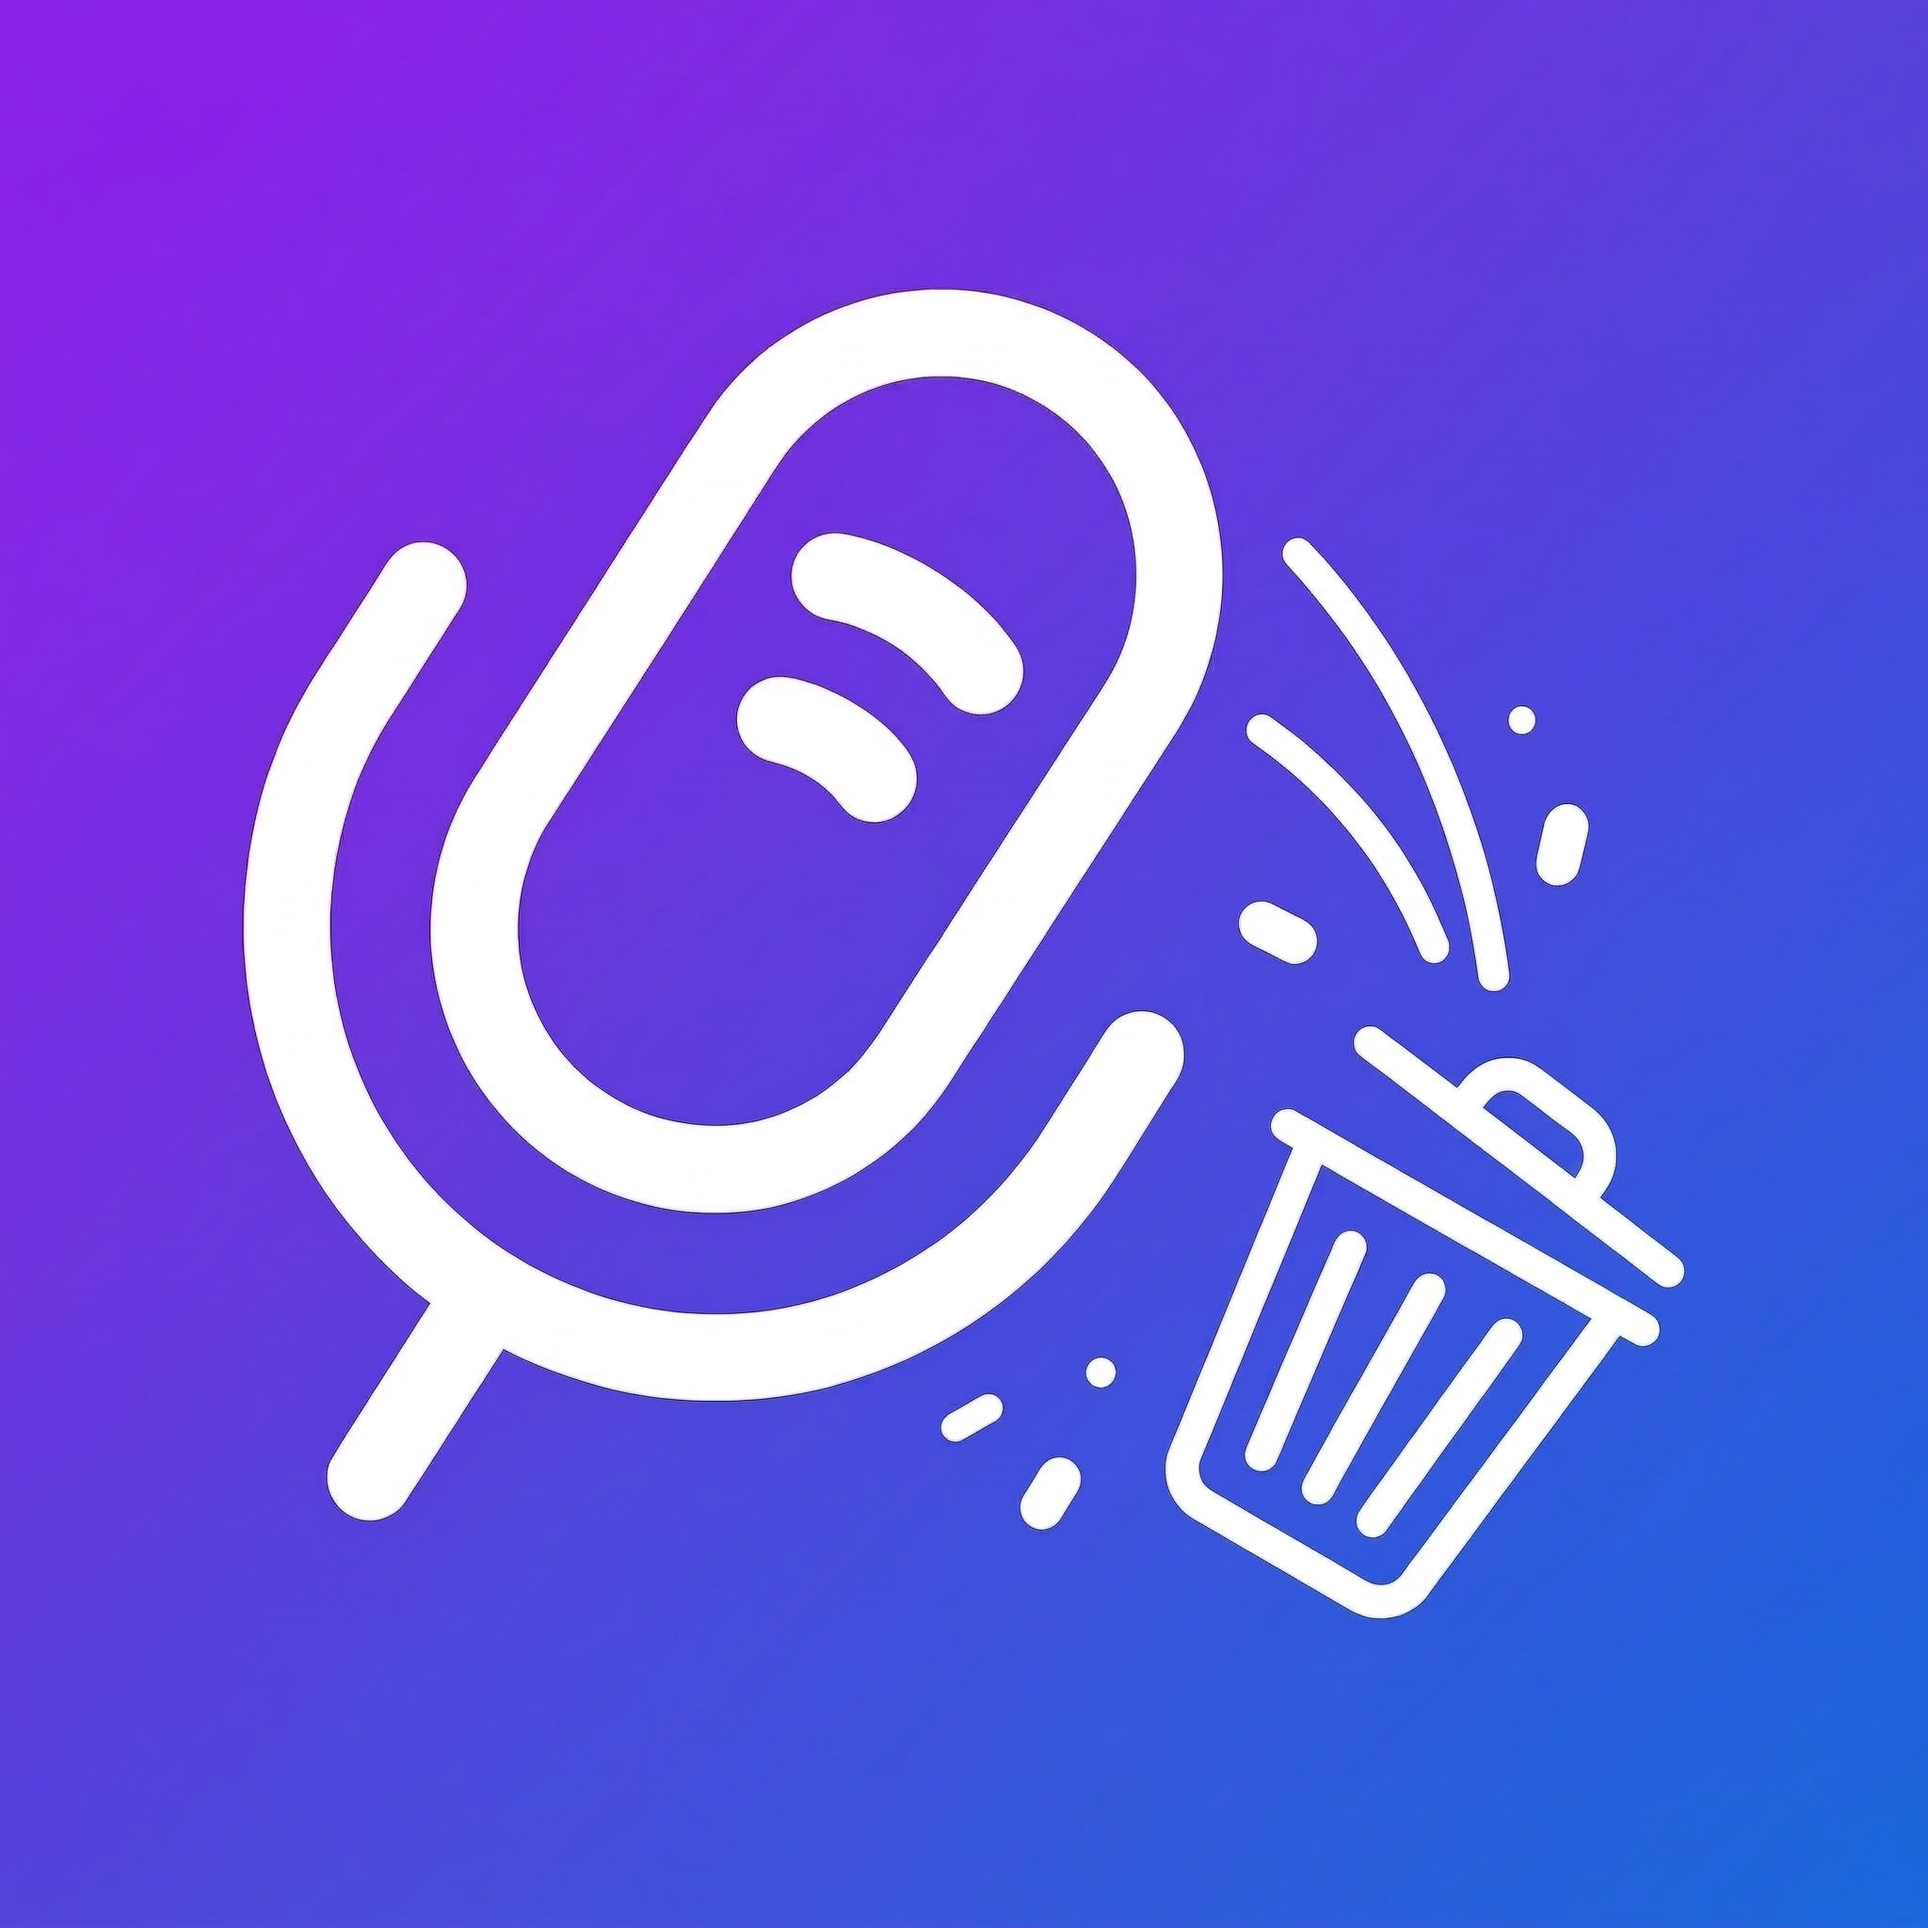
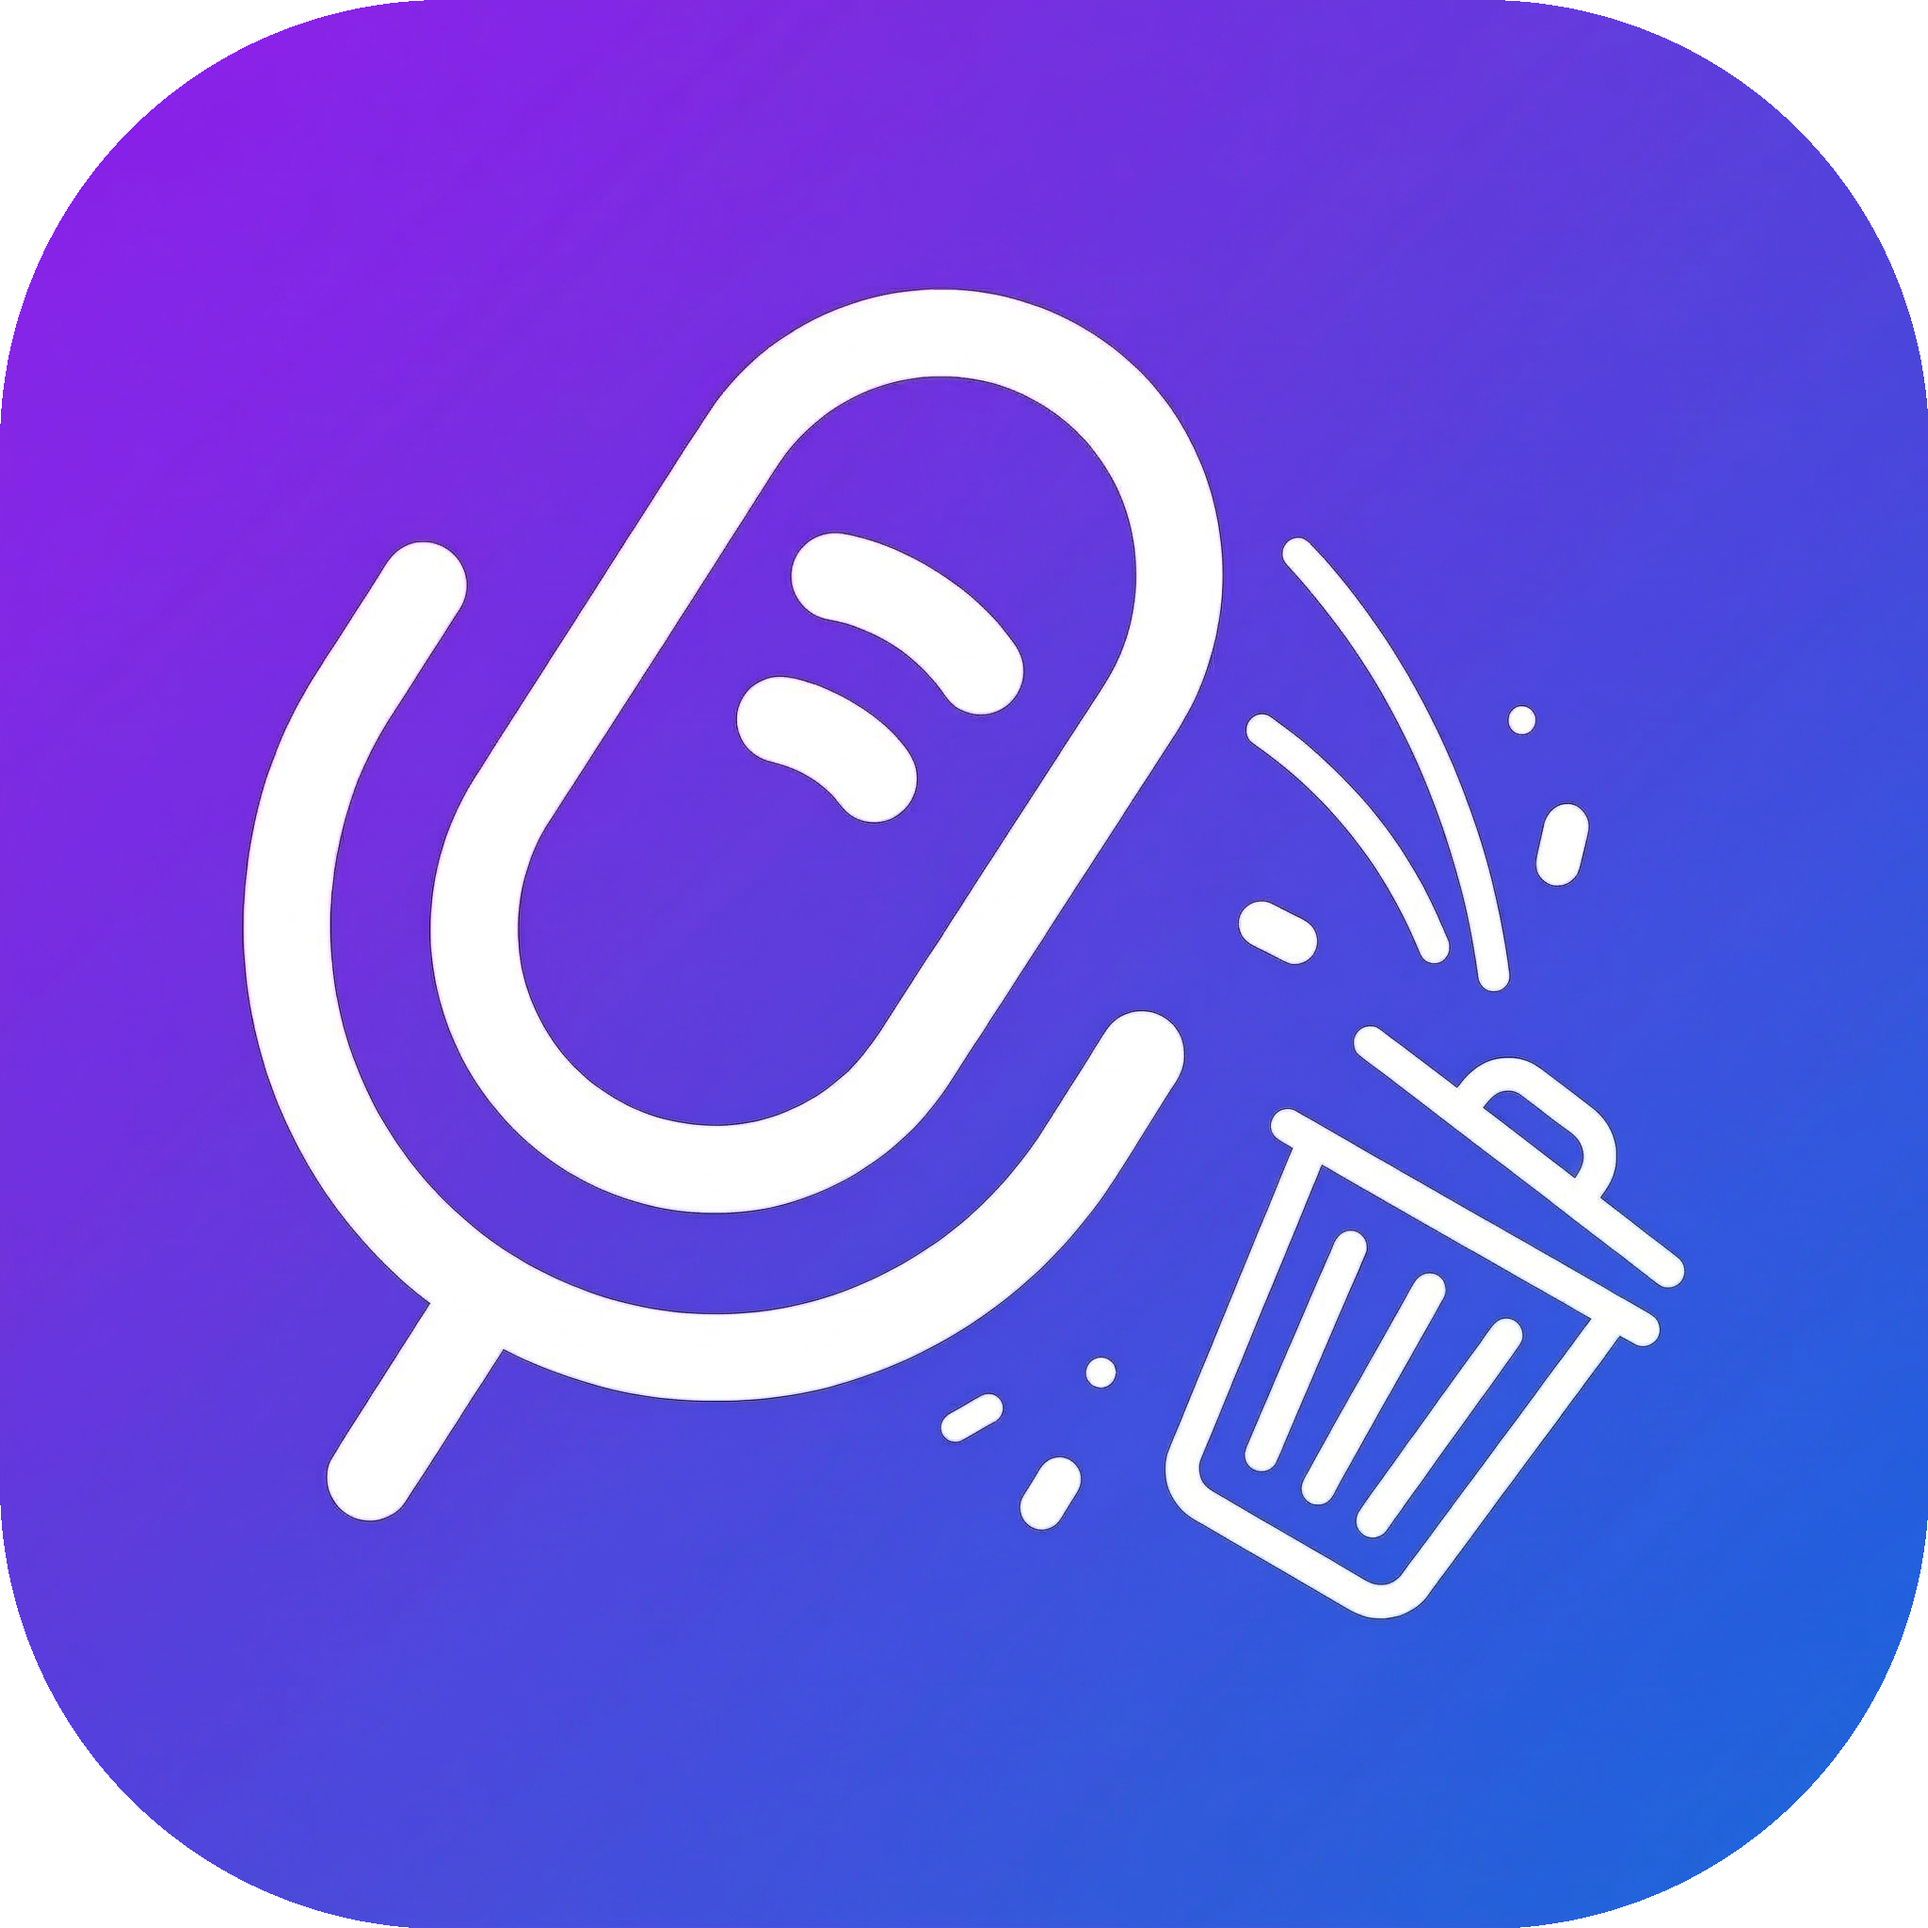
Release v1.0.3 with installer cancellation and macOS 14 fixes

diff --git a/task_runner/TaskProgressApp.m b/task_runner/TaskProgressApp.m
@@ -1,4 +1,5 @@
 #import <Cocoa/Cocoa.h>
+#import <signal.h>
 
 static NSString *Localized(NSString *zh, NSString *en) {
     NSArray<NSString *> *langs = [NSLocale preferredLanguages];
@@ -54,6 +55,7 @@ static NSString *SanitizeOutput(NSString *value) {
 @property(nonatomic, strong) NSMutableArray<NSDictionary *> *pendingWarnings;
 @property(nonatomic, assign) BOOL sawProgress;
 @property(nonatomic, assign) BOOL taskStarted;
+@property(nonatomic, assign) BOOL cancellationRequested;
 @property(nonatomic, assign) BOOL finished;
 @end
 
@@ -93,8 +95,7 @@ static NSString *SanitizeOutput(NSString *value) {
     if (self.finished || !self.taskStarted || self.task == nil || !self.task.running) {
         return NSTerminateNow;
     }
-    NSBeep();
-    self.statusLabel.stringValue = Localized(@"任务仍在进行中，请等待完成。", @"Task is still running. Please wait for completion.");
+    [self requestCancelIfNeeded];
     return NSTerminateCancel;
 }
 
@@ -103,8 +104,7 @@ static NSString *SanitizeOutput(NSString *value) {
     if (self.finished || !self.taskStarted || self.task == nil || !self.task.running) {
         return YES;
     }
-    NSBeep();
-    self.statusLabel.stringValue = Localized(@"任务仍在进行中，请等待完成。", @"Task is still running. Please wait for completion.");
+    [self requestCancelIfNeeded];
     return NO;
 }
 
@@ -210,8 +210,8 @@ static NSString *SanitizeOutput(NSString *value) {
 
     self.closeButton = [[NSButton alloc] initWithFrame:NSMakeRect(552, 28, 120, 36)];
     self.closeButton.bezelStyle = NSBezelStyleRounded;
-    self.closeButton.title = Localized(@"关闭", @"Close");
-    self.closeButton.enabled = NO;
+    self.closeButton.title = Localized(@"取消", @"Cancel");
+    self.closeButton.enabled = YES;
     self.closeButton.target = self;
     self.closeButton.action = @selector(onClose:);
     [content addSubview:self.closeButton];
@@ -319,6 +319,7 @@ static NSString *SanitizeOutput(NSString *value) {
         return;
     }
     self.taskStarted = YES;
+    setpgid(self.task.processIdentifier, self.task.processIdentifier);
 }
 
 - (void)consumeOutputData:(NSData *)data {
@@ -436,11 +437,21 @@ static NSString *SanitizeOutput(NSString *value) {
     }
     self.finished = YES;
     self.closeButton.enabled = YES;
+    self.closeButton.title = Localized(@"关闭", @"Close");
     if (!self.sawProgress) {
         self.progressBar.indeterminate = NO;
         self.progressBar.minValue = 0;
         self.progressBar.maxValue = 100;
         [self.progressBar stopAnimation:nil];
+    }
+    if (self.cancellationRequested) {
+        self.progressBar.doubleValue = 0;
+        self.statusLabel.stringValue = Localized(
+            [self.config.mode isEqualToString:@"uninstall"] ? @"卸载已取消。" : @"安装已取消。",
+            [self.config.mode isEqualToString:@"uninstall"] ? @"Uninstall cancelled." : @"Installation cancelled."
+        );
+        [self appendLog:[NSString stringWithFormat:@"[WARN] %@\n", self.statusLabel.stringValue]];
+        return;
     }
     if (status == 0) {
         self.progressBar.doubleValue = 100;
@@ -513,7 +524,82 @@ static NSString *SanitizeOutput(NSString *value) {
 
 - (void)onClose:(id)sender {
     (void)sender;
+    if (!self.finished && self.taskStarted && self.task != nil && self.task.running) {
+        [self requestCancelIfNeeded];
+        return;
+    }
     [NSApp terminate:nil];
+}
+
+- (BOOL)requestCancelIfNeeded {
+    if (self.finished || !self.taskStarted || self.task == nil || !self.task.running) {
+        return YES;
+    }
+    if (self.cancellationRequested) {
+        self.statusLabel.stringValue = Localized(@"正在取消，请稍候…", @"Cancelling, please wait...");
+        return NO;
+    }
+
+    NSAlert *alert = [[NSAlert alloc] init];
+    alert.alertStyle = NSAlertStyleWarning;
+    if ([self.config.mode isEqualToString:@"uninstall"]) {
+        alert.messageText = Localized(@"确认取消卸载", @"Cancel Uninstall?");
+        alert.informativeText = Localized(
+            @"当前卸载任务仍在运行。现在取消会停止任务，并尽量保留已存在的文件。",
+            @"The uninstall task is still running. Cancelling now will stop it and preserve existing files as much as possible."
+        );
+    } else {
+        alert.messageText = Localized(@"确认取消安装", @"Cancel Installation?");
+        alert.informativeText = Localized(
+            @"当前安装任务仍在运行。现在取消会停止任务，并清理本次安装已产生的文件。",
+            @"The installation task is still running. Cancelling now will stop it and clean up files created by this install."
+        );
+    }
+    [alert addButtonWithTitle:Localized(@"继续取消", @"Cancel Task")];
+    [alert addButtonWithTitle:Localized(@"继续等待", @"Keep Running")];
+    if ([alert runModal] != NSAlertFirstButtonReturn) {
+        return NO;
+    }
+    [self cancelRunningTask];
+    return NO;
+}
+
+- (void)cancelRunningTask {
+    if (self.cancellationRequested || self.task == nil || !self.task.running) {
+        return;
+    }
+    self.cancellationRequested = YES;
+    self.statusLabel.stringValue = Localized(@"正在取消并清理安装文件…", @"Cancelling and cleaning up installation files...");
+    self.closeButton.enabled = NO;
+    self.actionButton.enabled = NO;
+    self.secondaryActionButton.enabled = NO;
+    [self appendLog:[NSString stringWithFormat:@"[Step] %@\n",
+                     Localized(@"用户请求取消，正在终止任务并回滚。", @"Cancellation requested. Stopping task and rolling back.")]];
+
+    pid_t pid = (pid_t)self.task.processIdentifier;
+    if (pid > 0) {
+        killpg(pid, SIGTERM);
+    }
+    @try {
+        [self.task terminate];
+    } @catch (__unused NSException *exc) {
+    }
+
+    __weak typeof(self) weakSelf = self;
+    dispatch_after(dispatch_time(DISPATCH_TIME_NOW, (int64_t)(2.0 * NSEC_PER_SEC)), dispatch_get_main_queue(), ^{
+        if (weakSelf == nil || weakSelf.task == nil || !weakSelf.task.running) {
+            return;
+        }
+        weakSelf.statusLabel.stringValue = Localized(@"取消中，正在强制结束安装任务…", @"Still cancelling, force-stopping the task...");
+        pid_t runningPid = (pid_t)weakSelf.task.processIdentifier;
+        if (runningPid > 0) {
+            killpg(runningPid, SIGKILL);
+        }
+        @try {
+            [weakSelf.task interrupt];
+        } @catch (__unused NSException *exc) {
+        }
+    });
 }
 
 - (void)onPrimaryAction:(id)sender {

diff --git a/menubar_dictation_app.py b/menubar_dictation_app.py
@@ -6,6 +6,7 @@ import json
 import logging
 import objc
 import os
+import platform
 import re
 import shutil
 import subprocess
@@ -33,6 +34,8 @@ from AppKit import (
     NSColor,
     NSFont,
     NSImage,
+    NSImageLeft,
+    NSImageScaleProportionallyDown,
     NSImageView,
     NSMakeRect,
     NSMakeSize,
@@ -82,7 +85,7 @@ FUNASR_RUNTIME_DIR = APP_DIR / "funasr_nano_runtime"
 FUNASR_REMOTE_CODE_PATH = FUNASR_RUNTIME_DIR / "model.py"
 MENU_ICON = str((APP_DIR / "assets" / "mic_menu_icon.png").resolve())
 APP_ICON = str((APP_DIR / "assets" / "app_launcher_icon.png").resolve())
-APP_BUILD = "2026-03-21-v1.0.2"
+APP_BUILD = "2026-03-22-v1.0.3"
 LOCK_FD = None
 EVENT_TAP_LOCATION = Quartz.kCGSessionEventTap
 DEFAULT_NCPU = max(1, int(os.environ.get("SVD_NCPU", "2")))
@@ -3040,13 +3043,23 @@ class SenseVoiceMenuBarApp(rumps.App):
         if self._menu_icon_ns is not None:
             return self._menu_icon_ns
         try:
-            if not Path(MENU_ICON).exists():
-                return None
-            icon = NSImage.alloc().initWithContentsOfFile_(MENU_ICON)
-            if icon is None:
-                return None
-            icon.setTemplate_(True)
-            icon.setSize_(NSMakeSize(18.0, 18.0))
+            mac_version = platform.mac_ver()[0]
+            major = int(mac_version.split(".")[0]) if mac_version else 0
+            if major and major <= 14:
+                icon = _app_icon_image(rounded=True)
+                if icon is None:
+                    return None
+                icon = icon.copy()
+                icon.setTemplate_(False)
+                icon.setSize_(NSMakeSize(18.0, 18.0))
+            else:
+                if not Path(MENU_ICON).exists():
+                    return None
+                icon = NSImage.alloc().initWithContentsOfFile_(MENU_ICON)
+                if icon is None:
+                    return None
+                icon.setTemplate_(True)
+                icon.setSize_(NSMakeSize(18.0, 18.0))
             self._menu_icon_ns = icon
             return self._menu_icon_ns
         except Exception as exc:
@@ -3082,6 +3095,14 @@ class SenseVoiceMenuBarApp(rumps.App):
                 button = None
             if button is not None:
                 button.setTitle_(self.title or "○")
+                try:
+                    button.setImagePosition_(NSImageLeft)
+                except Exception:
+                    pass
+                try:
+                    button.setImageScaling_(NSImageScaleProportionallyDown)
+                except Exception:
+                    pass
                 if button.image() is None:
                     icon = self._menu_icon_image()
                     if icon is not None:
@@ -3107,6 +3128,13 @@ class SenseVoiceMenuBarApp(rumps.App):
 
     def on_engine_status(self, status: str) -> None:
         with self.status_lock:
+            if self.current_status == "ERROR" and not self.dictation_enabled and status in {"LOADING", "READY"}:
+                logging.info(
+                    "suppress engine status transition %s -> %s while trigger is disabled",
+                    self.current_status,
+                    status,
+                )
+                return
             self.current_status = status
 
     def _queue_alert(self, text: str) -> None:
@@ -3127,7 +3155,7 @@ class SenseVoiceMenuBarApp(rumps.App):
             self.enable_dictation(show_alert=False, request_prompt=False)
         if self.pending_startup_enable:
             self.pending_startup_enable = False
-            self.enable_dictation(show_alert=False, request_prompt=False)
+            self.enable_dictation(show_alert=True, request_prompt=True)
 
     def on_trigger(self) -> None:
         if not self.dictation_enabled or self.updating_model:

diff --git a/README.md b/README.md
@@ -43,7 +43,7 @@ What the DMG installer does:
 - creates the graphical uninstaller at `~/Applications/Uninstall FunASR Dictation.app`
 
 Installation steps:
-1. Download the latest `funasr-dictation-installer-1.0.2.dmg` from Releases.
+1. Download the latest `funasr-dictation-installer-1.0.3.dmg` from Releases.
 2. Open the DMG.
 3. Double-click `Install FunASR Dictation.app`.
 4. Wait for the native installer window to finish downloading and setting up the runtime.
@@ -202,7 +202,7 @@ Optional source-install commands:
 Output:
 
 ```bash
-./funasr-dictation-installer-1.0.2.dmg
+./funasr-dictation-installer-1.0.3.dmg
 ```
 
 ### Script Reference

diff --git a/README.zh-CN.md b/README.zh-CN.md
@@ -43,7 +43,7 @@ DMG 安装器会自动完成：
 - 创建 `~/Applications/Uninstall FunASR Dictation.app` 图形化卸载器
 
 安装步骤：
-1. 从 Releases 下载最新的 `funasr-dictation-installer-1.0.2.dmg`
+1. 从 Releases 下载最新的 `funasr-dictation-installer-1.0.3.dmg`
 2. 打开 DMG
 3. 双击 `Install FunASR Dictation.app`
 4. 等待原生安装窗口完成下载与部署
@@ -202,7 +202,7 @@ DMG 安装器会自动完成：
 产物：
 
 ```bash
-./funasr-dictation-installer-1.0.2.dmg
+./funasr-dictation-installer-1.0.3.dmg
 ```
 
 ### 脚本说明
